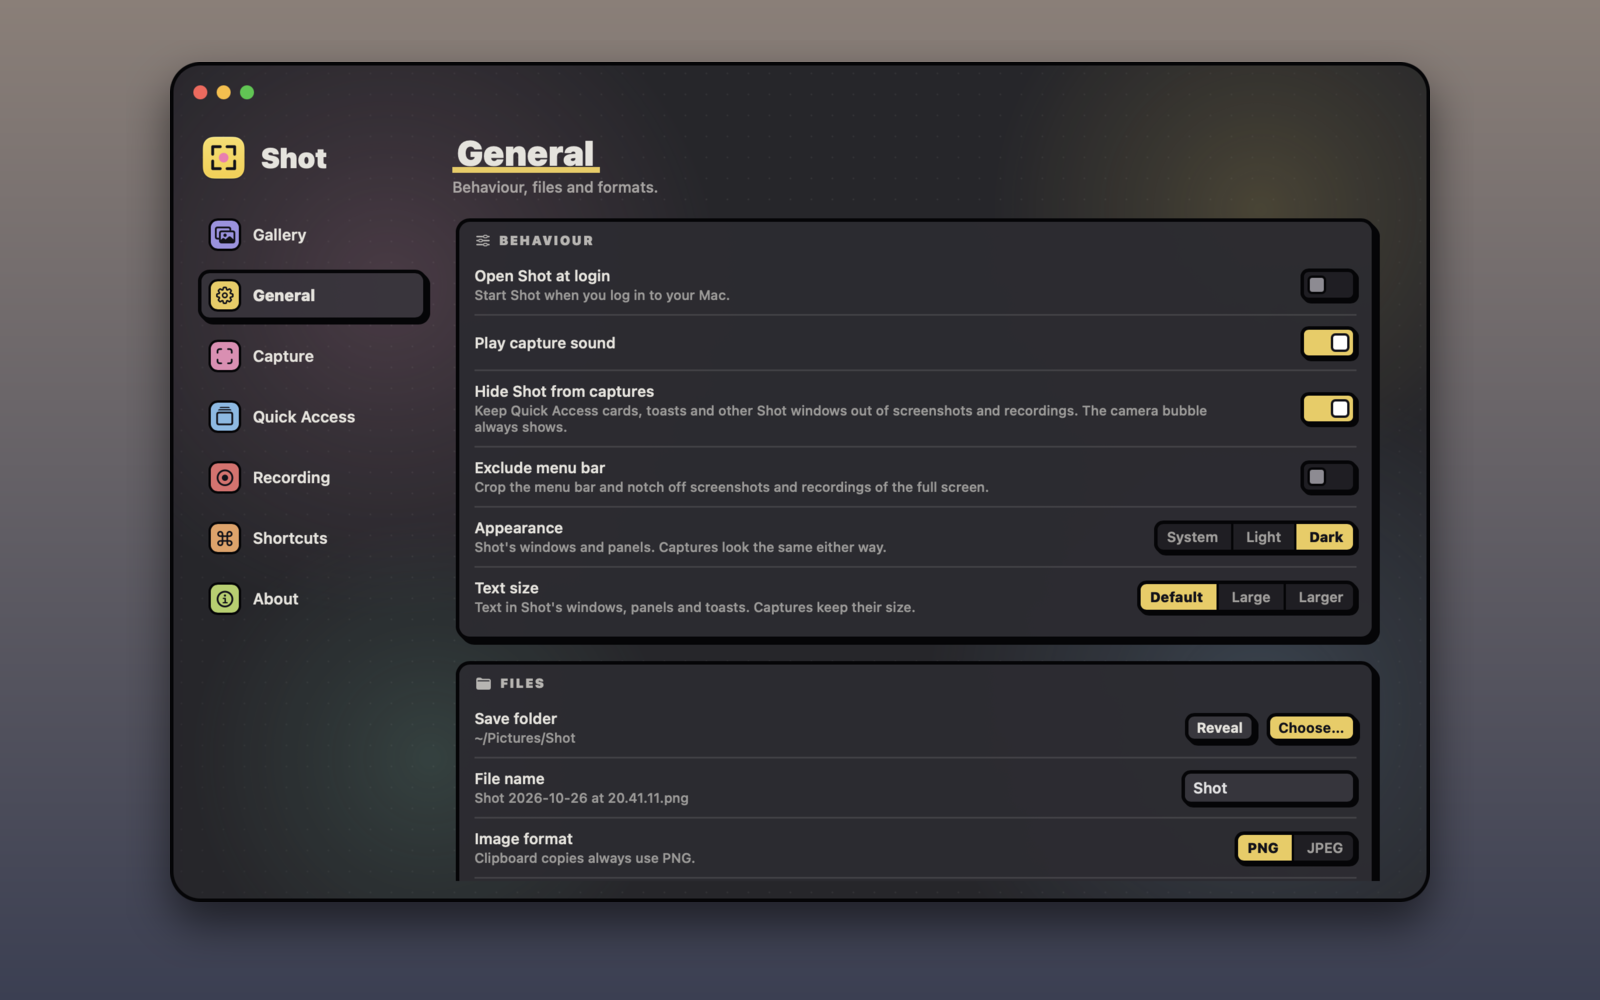
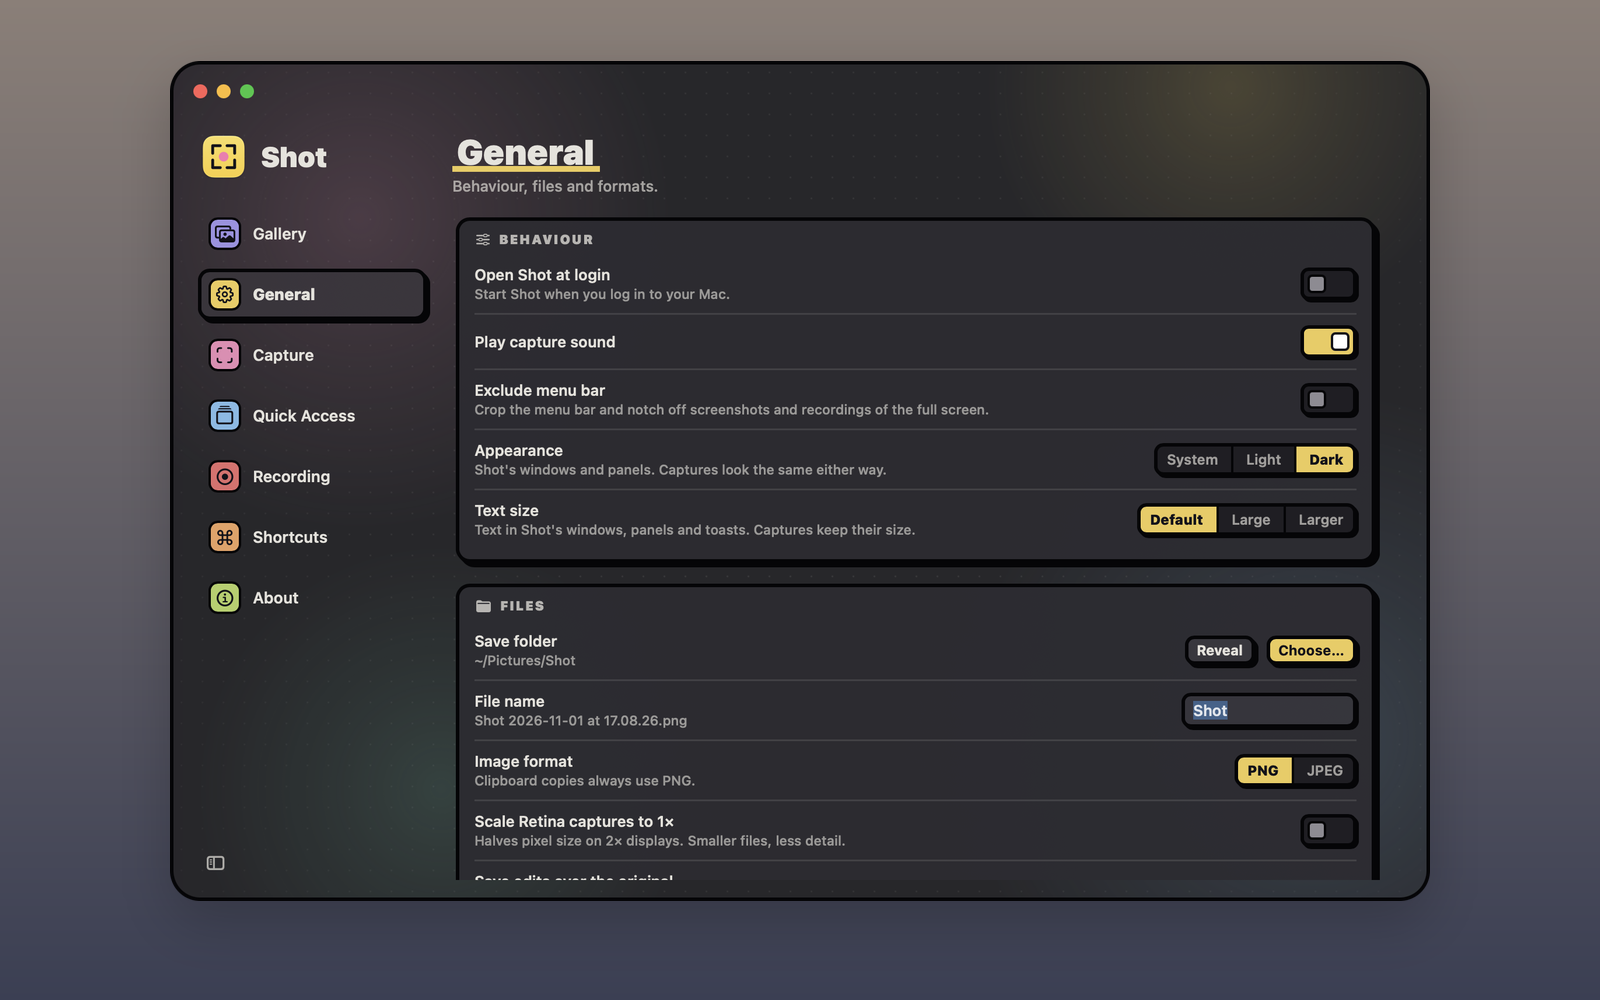
docs: document scrolling capture and reshoot the settings media
Adds the scroll panel picture, a table of the panel's messages, a
Troubleshooting entry for seams and gaps, and reshoots settings.png and
settings-dark.png without the removed Hide Shot from captures toggle.

Part of #1024

diff --git a/site/src/guide/02-take-a-screenshot.md b/site/src/guide/02-take-a-screenshot.md
@@ -46,7 +46,27 @@ Scroll takes one screenshot of something taller or wider than the screen: a long
 3. Scroll the content with the trackpad, the mouse wheel, <kbd>Page Down</kbd> or <kbd>Space</kbd>. Any direction works, and so does scrolling back. The panel's preview shows the picture so far, with the parts you haven't scrolled over hatched, so you can go back and fill them in.
 4. Press <kbd>Return</kbd> or click **Done**. The screenshot is copied and saved like any other. <kbd>Esc</kbd> cancels and keeps nothing.
 
-Sticky headers, footers, pinned columns and floating buttons appear once, where they belong. If the panel says something needs attention, it tells you what to do: scroll back a little after a big jump, pause a video that's playing in the area, or include some text so there's something to line up. The picture can be up to 30,000 pixels on a side.
+Sticky headers, footers, pinned columns and floating buttons appear once, where they belong. The picture can be up to 30,000 pixels on a side.
+
+![The Scroll panel beside a help article window. Its preview shows the picture so far, with the parts not yet scrolled over hatched, and Cancel and Done buttons below it](../../../docs/media/scroll-capture.png)
+
+### What you can scroll
+
+- **A window:** choose Window, click the window, then scroll it. This suits a chat thread or a settings list.
+- **A browser page:** choose Browser, click the page, then scroll it. Shot scrolls along the page you clicked.
+- **A screen:** choose Screen to scroll everything you see, such as a spreadsheet that fills the display.
+- **An area:** drag across the part that scrolls, which keeps a sidebar or a toolbar out of the picture.
+
+### When the panel asks for something
+
+The panel's outline turns red and it says what to do:
+
+| Message | What to do |
+| --- | --- |
+| Scrolled too far at once. Scroll back a little and carry on. | You jumped further than the area is tall, so Shot can't tell how the two parts join. Scroll back until you see something you saw before, then continue more slowly. |
+| Something in the area keeps changing, so Shot can't line frames up. | A video, an animation or a live counter is moving. Pause the video, or scroll past it. |
+| There isn't enough in the area to line frames up. | The area is a blank page or a single flat colour. Include some text or an image, or drag out another area. |
+| The image is as big as Shot can stitch. | You reached the size limit. Press <kbd>Return</kbd> to save it. |
 
 ## Without a mouse
 

diff --git a/docs/demo/README.md b/docs/demo/README.md
@@ -11,7 +11,7 @@ swift run ShotDemo --scene ticket,chat --appearance light
   - `ticket`: a support ticket with an order to point at and a customer email to redact. Assign opens a picker, and Reply shows a toast.
   - `dashboard`: a revenue report. The chart grows in and the order list fills in. Tickets in the sidebar opens a ticket list and Reports comes back, so a recording has a detour to cut.
   - `chat`: a `#checkout` channel to paste a screenshot or text into. Click the message box, press ⌘V, then Return.
-  - `article`: a help centre article several screens tall, with a toolbar that stays at the top, the sidebar at the left and a floating button over the text, to scroll through for the Capture Scrolling Area media.
+  - `article`: a help centre article several screens tall, with a toolbar that stays at the top, the sidebar at the left and a floating button over the text, to scroll through for the scrolling capture media.
 - `--appearance light` or `dark` overrides the system appearance. Shot's own windows follow Settings › General › Appearance, so set it to match.
 - `--clock HH:MM` moves every time in the scenes so the message you send in the chat is at that time. Pass the current time, such as `--clock $(date +%H:%M)`, so the times match the capture's file name. Without it, the message is at 09:54.
 - ⌘R replays the animations.

diff --git a/site/src/guide/15-troubleshooting.md b/site/src/guide/15-troubleshooting.md
@@ -36,6 +36,12 @@ Shot takes over <kbd>⌘⇧4</kbd> and <kbd>⌘⇧5</kbd> only once it has Scree
 - If you turned the macOS shortcuts back on in System Settings, turn that setting on again.
 - A **Shortcut unavailable** message means another app already uses that shortcut. Pick another in **Settings › Shortcuts**.
 
+## A scrolling screenshot has a seam, a repeated header or a gap
+
+- **A seam or a repeated header:** something in the area moved while you scrolled, such as a video or an animated banner, so Shot lined the pieces up slightly wrong. Pause it, or drag the area so it leaves that part out, and capture again.
+- **A gap or a hatched strip:** you scrolled past a part without stopping. The panel's preview hatches anything you haven't covered, so scroll back over it before you press **Done**.
+- **A header that shows twice:** drag the area so it starts below the header and capture again.
+
 ## Something else is wrong
 
 Shot writes to the macOS log. Run this in Terminal while you try again:
